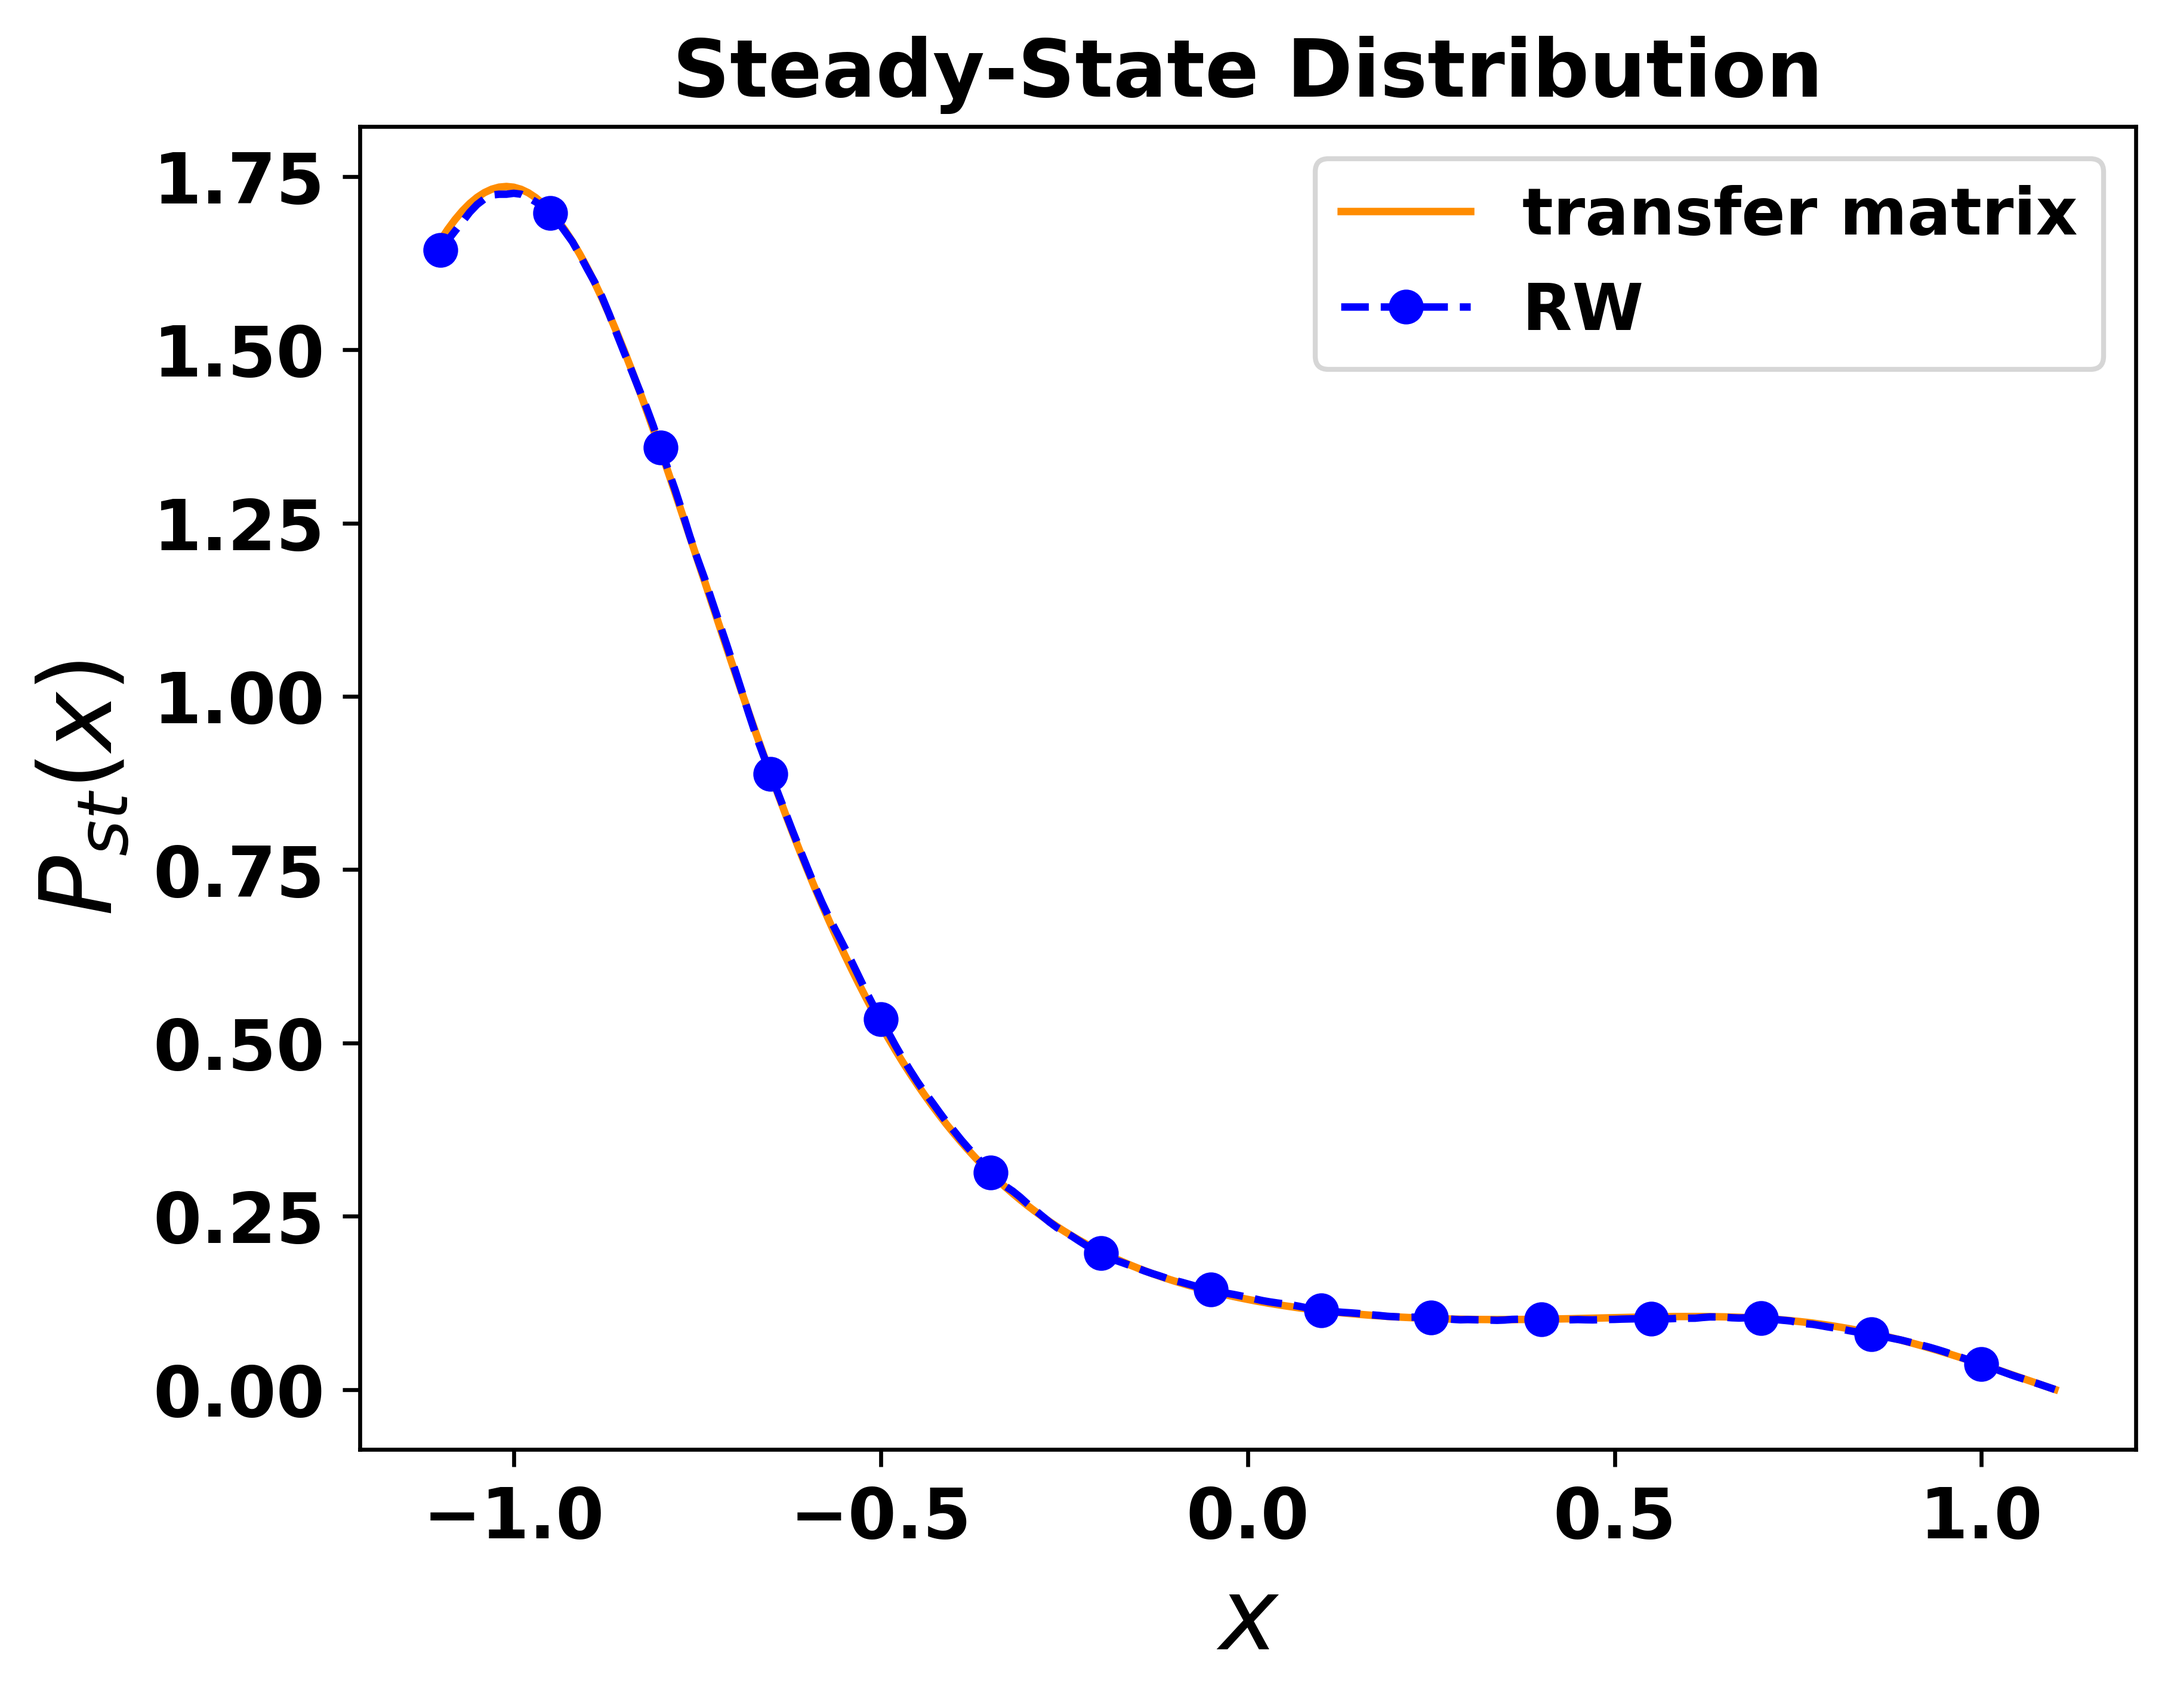
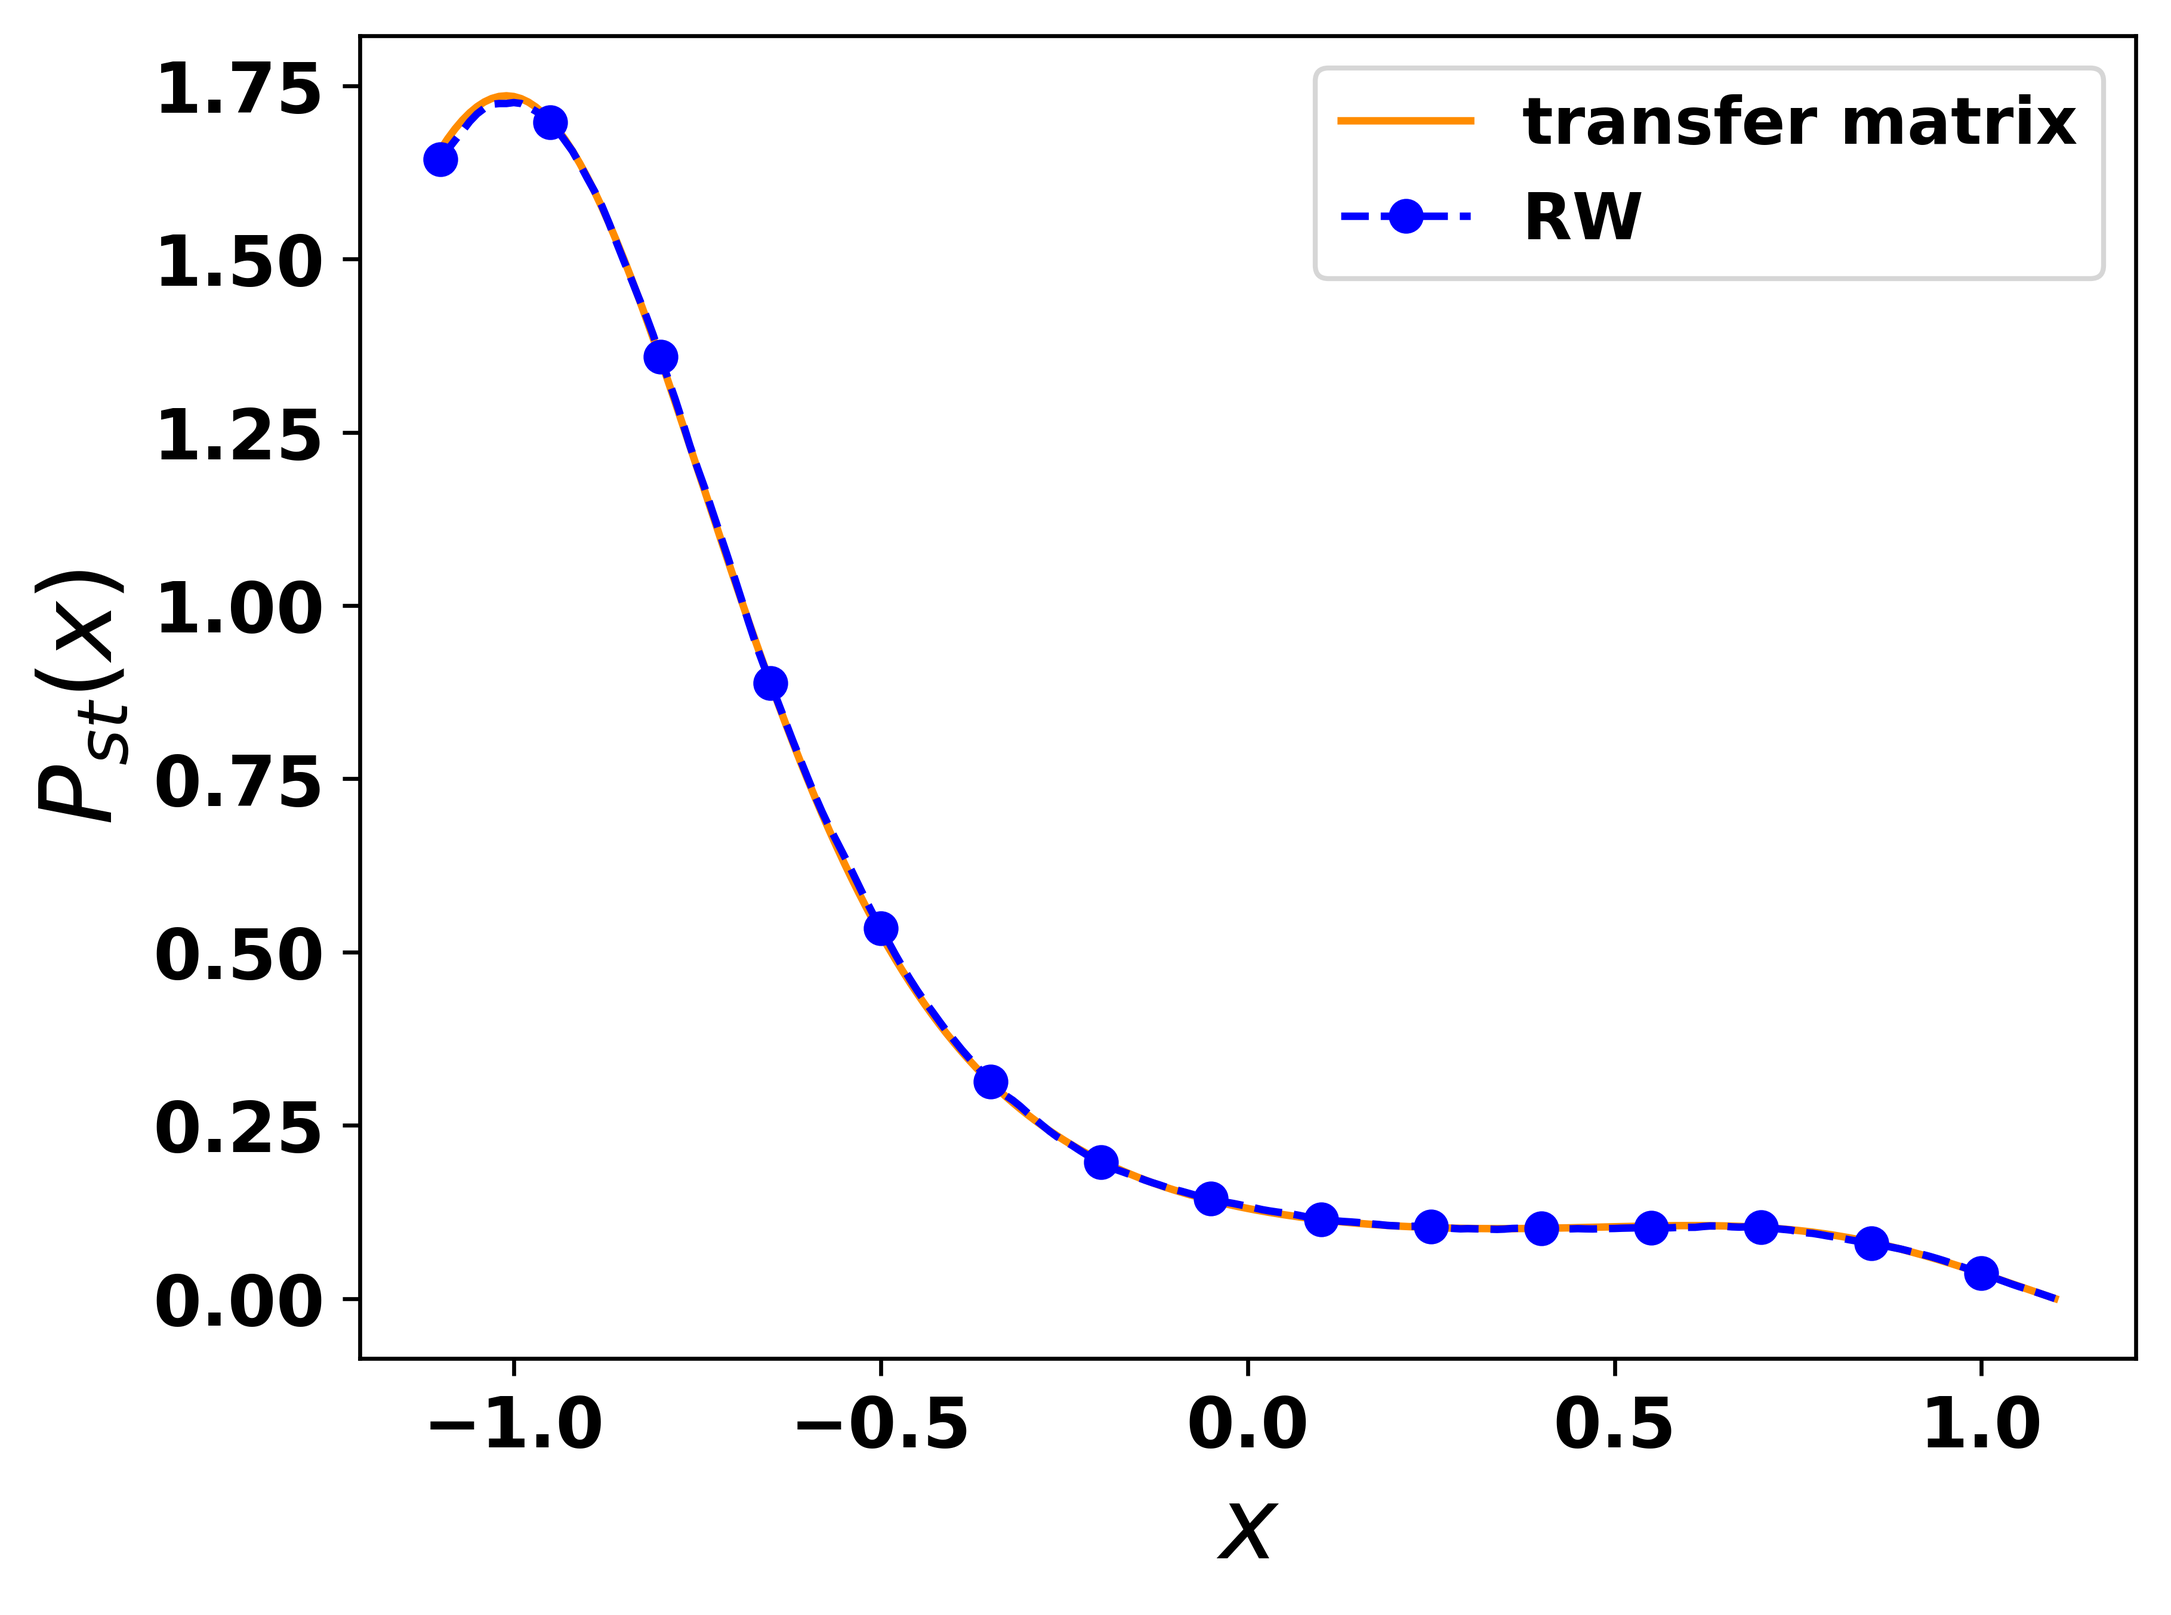
Remove the title from the picture

diff --git a/Reguera_method/Random_walk_Model/reguera_reconst_plot.py b/Reguera_method/Random_walk_Model/reguera_reconst_plot.py
@@ -21,7 +21,7 @@ x = np.linspace(-1.1, 1.1, 400)
 
 # plt.figure(figsize=(8, 6))
 plt.plot(x, beta_U(x), label='Potential Energy', color='black')
-plt.title('Double-Well Potential Energy', fontsize=16, fontweight='bold')
+# plt.title('Double-Well Potential Energy', fontsize=16, fontweight='bold')
 plt.xticks(fontsize=14, fontweight='bold')
 plt.yticks(fontsize=14, fontweight='bold')
 plt.xlabel('$x$', fontsize=20, fontweight='bold')
@@ -62,7 +62,7 @@ plt.xticks(fontsize=14, fontweight='bold')
 plt.yticks(fontsize=14, fontweight='bold')
 plt.xlabel('$x$', fontsize=20, fontweight='bold')
 plt.ylabel("$P_{st}(x)$", fontsize=20, fontweight='bold')
-plt.title('Steady-State Distribution', fontsize=16, fontweight='bold')
+# plt.title('Steady-State Distribution', fontsize=16, fontweight='bold')
 # plt.legend(fontsize=12)
 # Add legend here (after plotting, before saving/showing)
 legend = plt.legend(fontsize=13, loc='best', frameon=True)
@@ -80,7 +80,7 @@ plt.xticks(fontsize=14, fontweight='bold')
 plt.yticks(fontsize=14, fontweight='bold')
 plt.xlabel('$x$', fontsize=20, fontweight='bold')
 plt.ylabel("$-ln[P_{st}(x)]$", fontsize=20)
-plt.title('-ln(Steady-State Distribution)', fontsize=16, fontweight='bold')
+# plt.title('-ln(Steady-State Distribution)', fontsize=16, fontweight='bold')
 # plt.legend(fontsize=12)
 # Add legend here (after plotting, before saving/showing)
 legend = plt.legend(fontsize=13, loc='best', frameon=True)
@@ -99,7 +99,7 @@ plt.xticks(fontsize=13, fontweight='bold')
 plt.yticks(fontsize=13, fontweight='bold')
 plt.xlabel('$x$', fontsize=20, fontweight='bold')
 plt.ylabel(r"$\tau (x)$", fontsize=20, fontweight='bold')
-plt.title('Mean First-Passage Time', fontsize=16, fontweight='bold')
+# plt.title('Mean First-Passage Time', fontsize=16, fontweight='bold')
 # plt.legend(fontsize=12)
 # Add legend here (after plotting, before saving/showing)
 legend = plt.legend(fontsize=13, loc='best', frameon=True)
@@ -129,7 +129,7 @@ plt.xlabel('$x$', fontsize=20,  fontweight='bold')
 plt.ylabel('$ \\beta U(x) $', fontsize=20, fontweight='bold')
 plt.xticks(fontsize=14, fontweight='bold')
 plt.yticks(fontsize=14, fontweight='bold')
-plt.title('Reguera Free Energy Reconstruction', fontsize=16, fontweight='bold')
+# plt.title('Reguera Free Energy Reconstruction', fontsize=16, fontweight='bold')
 # plt.legend(fontsize=12)
 # Add legend here (after plotting, before saving/showing)
 legend = plt.legend(fontsize=13, loc='best', frameon=True)
